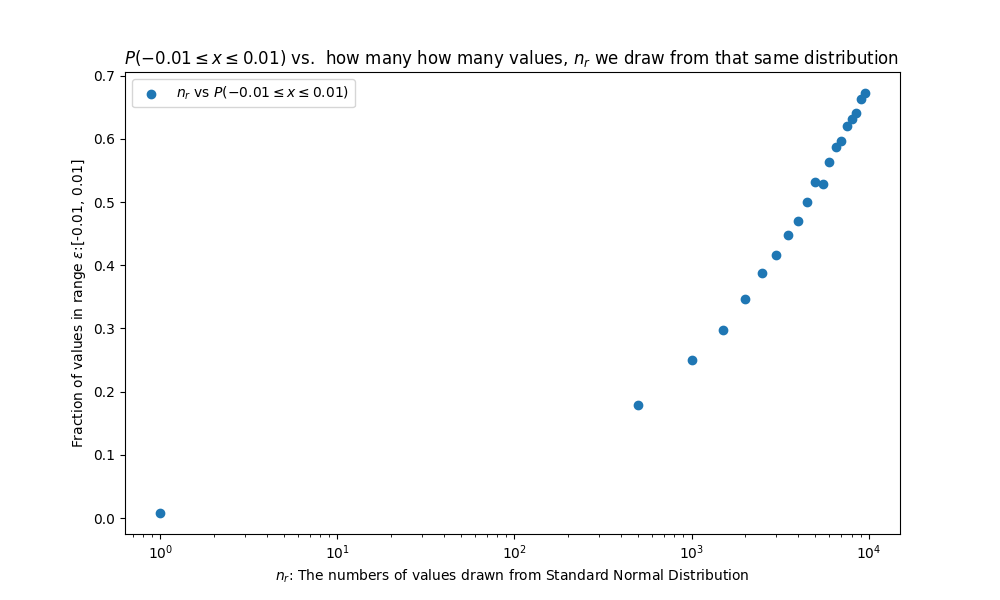
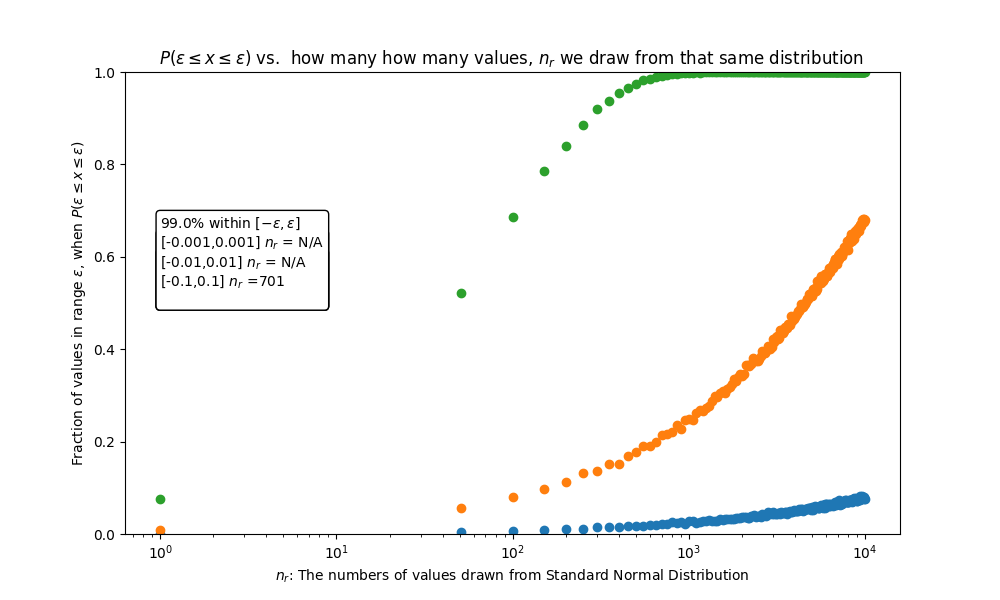
Completed part 3-5 for question 2

diff --git a/HW3/HW3_2_2.py b/HW3/HW3_2_2.py
@@ -1,79 +1,152 @@
 import matplotlib.pyplot as plt
 import numpy  as np
+n_trials =    100
 
-n_trials      = 100
-n_experiments = 10000
 mu_min        = -0.01
 mu_max        = 0.01
+
+n_experiments = 10000
 n_min         = 1
 n_max         = n_experiments
-n_step        = 500
-mu_mins       = np.array([-.1,-.01,-.001])
+n_step        = 50
+
+epsilons_min  = -3 # 10^-n, specifying n
+epsilons_max  = -1 # 10^-n, specifying n
+
+fraction_in_range = .99
+box = ""
+
+dist_types = ["std_norm", "uni", "bin", "poi", "chi2", "geo"]
 
 def chebyshev(n_range: np.array, mu_min:float, mu_max: float) -> np.array:
-    return 1 - ( 1 / (((mu_max - mu_min)/2)**2 * n_range))
+    return 1 - ( 1 / (((mu_max - mu_min)/2)**2 * n_range**2))
 
 
-def part_1(min: float, max: float, n_trials: int, n_experiments: int) -> float:
+def part_1(min: float, max: float, n_trials: int, n_experiments: int, dist_type: str) -> float:
     '''
     For n=100, what fraction of the 10,000  
     Xs were in the range [−0.01,0.01]?
     '''
-    X_bars = generate_sample_means(n_experiments, n_trials)
+    X_bars = generate_sample_means(n_experiments, n_trials, dist_type)
 
     return get_fraction_within_epsilon(X_bars, min, max)
 
 
 
 
-def part_2(n_experiments: int, n_min: int, n_max, n_step, mu_min: float, mu_max: float) -> None:
+def part_2(n_experiments: int, n_min: int, n_max, n_step, mu_min: float, mu_max: float, dist_type: float) -> None:
 
     n_range   = np.arange(n_min, n_max, n_step)
     in_ranges = np.array([])
 
     for n_r in n_range:
  
-        in_range  = part_1(mu_min, mu_max, n_r, n_experiments)
+        in_range  = part_1(mu_min, mu_max, n_r, n_experiments, dist_type)
         in_ranges = np.append(in_ranges,in_range)
 
     
-    
+    box = part_3(n_range, in_ranges, fraction_in_range, mu_min, mu_max)
+    # chebyshev_data = chebyshev(n_range,mu_min, mu_max)   
+
+    plt.text(
+        1,.5,
+        box,
+        bbox = dict(boxstyle = 'round', facecolor = 'white')
+    )
+
+    # plt.ylim(0,in_ranges.max())
+    plt.scatter(n_range, in_ranges, label = fr'$P({mu_min} \leq x \leq {mu_max})$')
+    # plt.plot(n_range, chebyshev_data, label = "chebyshev")
+
+    # plt.legend()
+
+
+def part_3(n_range: np.array, in_ranges: np.array, fraction_in_range: float, mu_min: float, mu_max: float)-> str:
+    global box
+    fraction_finder = n_range[np.argmax(in_ranges > fraction_in_range)]
+
+    if fraction_finder == 1:
+        box += fr"[{float(mu_min)},{mu_max}] $n_r$ = N/A {"\n"}"      
+    else:
+        box += fr"[{float(mu_min)},{mu_max}] $n_r$ ={fraction_finder}{"\n"}"
+    return box
+
+
+def part_4(n_experiments: int, n_min: int, n_max: int, n_step: int, epsilons_min: float, epsilons_max: float, dist_type: str) -> None:
+
+    epsilons = np.logspace(epsilons_min, epsilons_max, abs(epsilons_min))
+    global box
+
+    box +=fr"{fraction_in_range*100:.3}% within $[-\epsilon, \epsilon]$ {"\n"}"
 
     plt.figure(figsize=(10, 6))
-    plt.title(fr"$P({mu_min} \leq x \leq {mu_max})$ vs.  how many how many values, $n_r$ we draw from that same distribution ")
-    plt.ylabel(fr"Fraction of values in range $\epsilon$:" + f"[{mu_min}, {mu_max}]")
-    plt.xlabel(r"$n_r$: The numbers of values drawn from Standard Normal Distribution")
+    plt.title(fr"{dist_type} distribution $P(\epsilon \leq x \leq \epsilon)$ vs. $n_r$")
+    plt.ylabel(fr"Fraction of values in range $\epsilon$, when $P(\epsilon \leq x \leq \epsilon)$")
+    plt.xlabel(fr"$n_r$: The numbers of values drawn from Standard Normal Distribution")
     plt.xscale("log")
-    # chebyshev_data = chebyshev(n_range,mu_min, mu_max)
-    # plt.plot(n_range, chebyshev_data, label = "chebyshev")
-    plt.scatter(n_range, in_ranges, label = fr'$n_r$ vs $P({mu_min} \leq x \leq {mu_max})$')
-    plt.legend()
-    plt.savefig("HW3_2_2.png")
-    plt.show()
+    
 
+    
+
+
+    for ep in epsilons:
+        print(fr"Plotting {n_experiments} experiments drawing up to {n_max} values with mean tolerance {ep}")
+
+        part_2(n_experiments, n_min, n_max, n_step, -ep, ep, dist_type)
+
+    plt.savefig(f"HW3_2_2_{dist_type}.png")
+    plt.legend()
+
+
+def part_5(n_experiments: int, n_min: int, n_max:int, n_step:int, epsilons_min: float, epsilons_max:float)-> None:
+
+    for dt in dist_types:
+        print("="*5, dt, "="*5)
+        part_4(n_experiments, n_min, n_max, n_step, epsilons_min, epsilons_max, dt)
+        global box
+        box = ""
+    
+    
 
 
 def get_fraction_within_epsilon(data: np.array, mu_min: float, mu_max: float)-> np.array:
     return data[(data >= mu_min) & (data <= mu_max)].size / data.size
 
-def get_dataset(n: int) -> np.array:
-    '''
-    f(x) = 1 / sqrt(2 * pi * sigma) * exp[-(x - mu)^2 / (2 * sigma ^2)]
+def get_dataset(n: int, type: str) -> np.array:
 
-    For the case of mu = 0 , sigma = 1, this is the Standard Normal which is a specific case of the Gaussian Distribution.
-    It is a continuous probabilty density function
-    
-    r(x) = 1 / sqrt(2 * pi) * exp [ -x^2 / 2]
-    '''
-    
-    return np.random.standard_normal(n) 
+    match type:
+        case "std_norm":
+            '''
+            f(x) = 1 / sqrt(2 * pi * sigma) * exp[-(x - mu)^2 / (2 * sigma ^2)]
 
-def generate_sample_means(n_experiments: int, n_trials: int)-> np.array:
+            For the case of mu = 0 , sigma = 1, this is the Standard Normal which is a specific case of the Gaussian Distribution.
+            It is a continuous probabilty density function
+            
+            r(x) = 1 / sqrt(2 * pi) * exp [ -x^2 / 2]
+            '''
+            return np.random.standard_normal(n) 
+        case "bin":
+            return np.random.binomial(n,.5,n)
+        case "uni":
+            return np.random.uniform(size = n)
+        case "poi":
+            return np.random.poisson(size = n)
+        case "chi2":
+            return np.random.chisquare(1, n)
+        case "geo":
+            return np.random.geometric(.5, n)
+
+    
+        
+
+
+
+def generate_sample_means(n_experiments: int, n_trials: int, dist_type: str)-> np.array:
     X_bars = np.array([])
 
     for n_ex in range(n_experiments):
 
-        data = get_dataset(n_trials)
+        data = get_dataset(n_trials, dist_type)
         
         X_bars = np.append(X_bars, data.mean()) 
 
@@ -83,12 +156,10 @@ def generate_sample_means(n_experiments: int, n_trials: int)-> np.array:
 
 def main():
 
-    in_range = part_1(mu_min, mu_max, n_trials, n_experiments)
-
-    print(f"For {n_experiments} experiments drawing {n_trials} values, the percentage in range [{mu_min}, {mu_max}] is {in_range:.3}%") 
-
-    part_2(n_experiments, n_min, n_max, n_step, mu_min, mu_max)
-
+    in_range = part_1(mu_min, mu_max, n_trials, n_experiments, "std_norm")
+    
+    # part_4(n_experiments, n_min, n_max, n_step, epsilons_min, epsilons_max, "std_norm")
+    part_5(n_experiments, n_min, n_max, n_step, epsilons_min, epsilons_max)
 
 if __name__ == "__main__":
     main()
